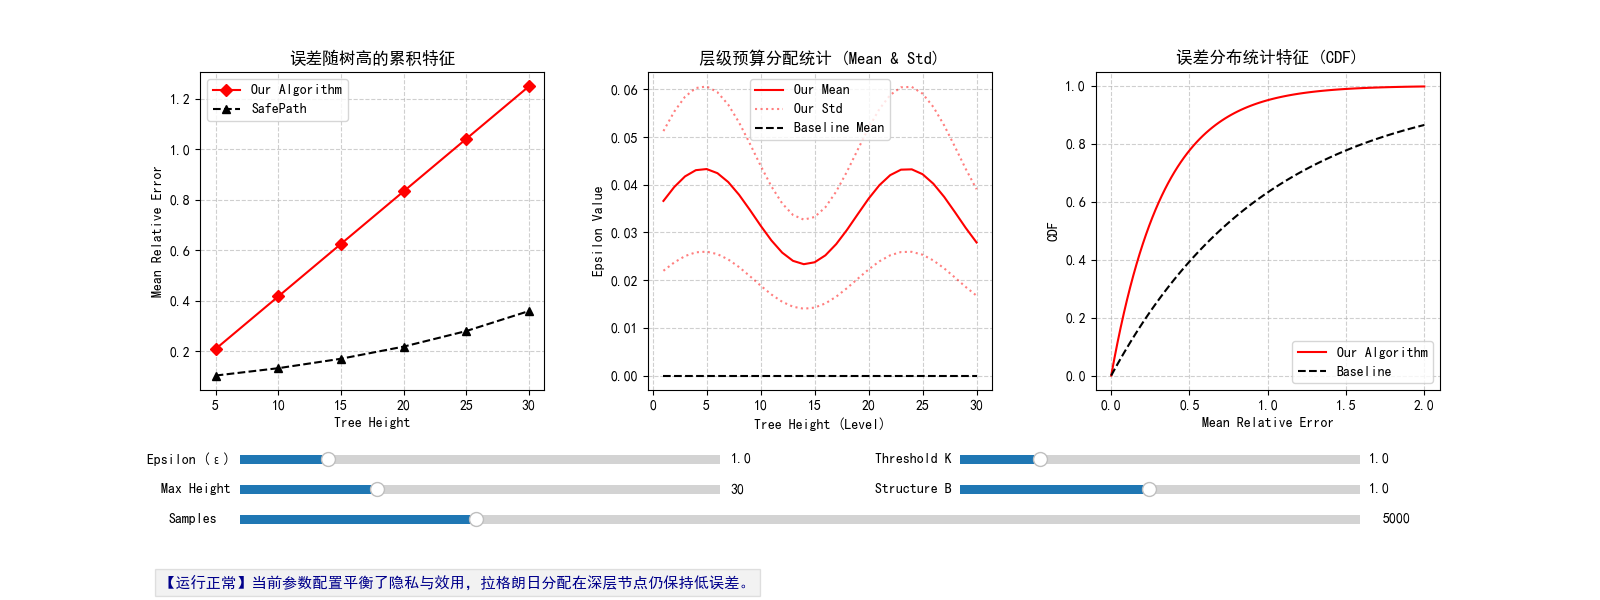
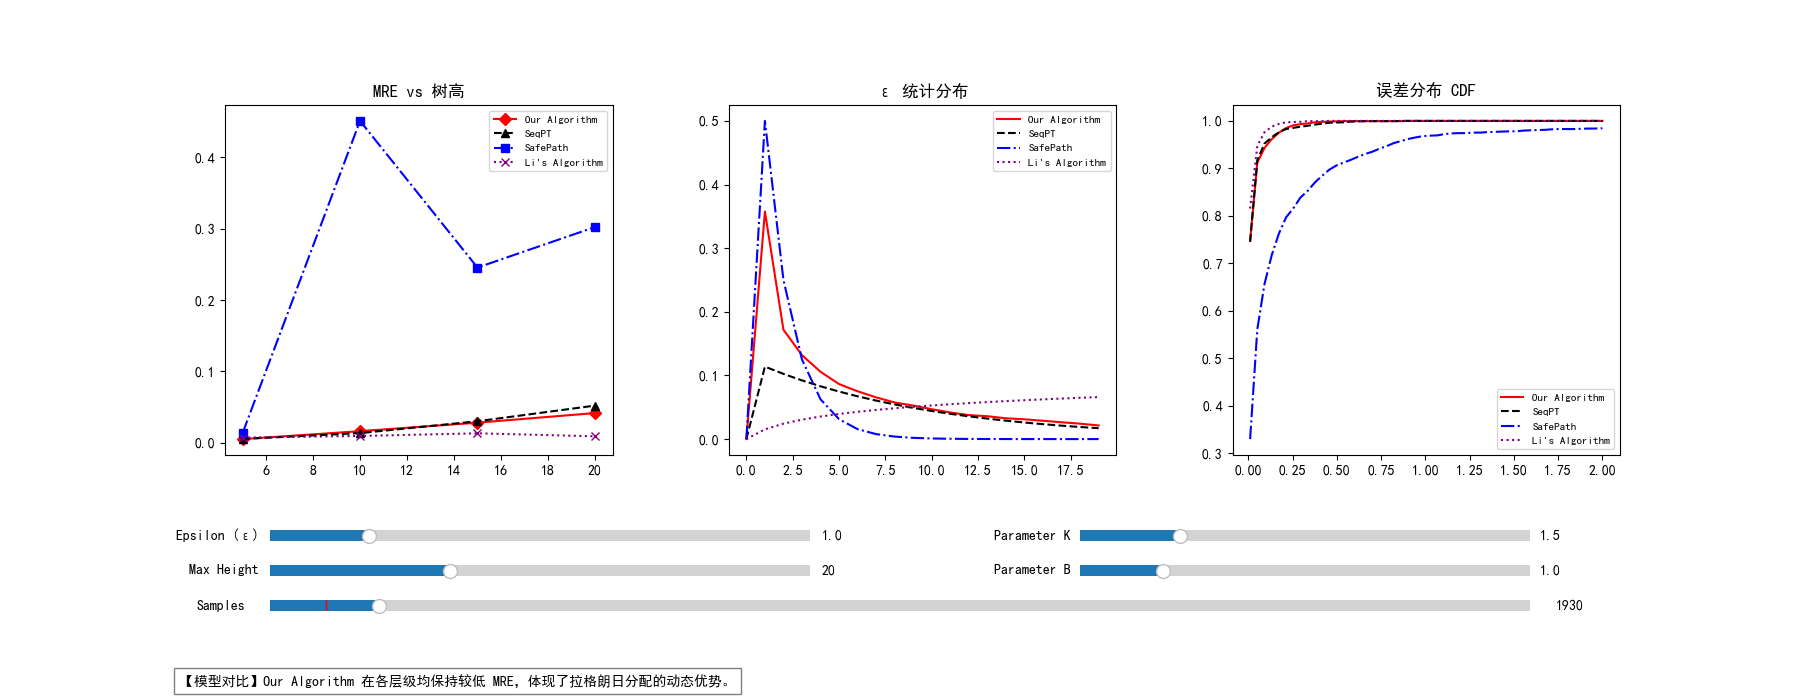
重新优化了搜索器

diff --git a/ProjectCode/EndEposideCode/try_search_tool.py b/ProjectCode/EndEposideCode/try_search_tool.py
@@ -1,133 +1,214 @@
 import numpy as np
 import matplotlib.pyplot as plt
-from matplotlib.widgets import Slider, Button
+from matplotlib.widgets import Slider
+# 确保从你的 model.py 中导入所有四个模型类
+from model import LagrangianTrie, SafePathTrie, SeqPTTrie, LiIncrementalTrie
 
-# --- 环境配置：解决中文显示与弹出窗口 ---
-plt.rcParams['font.sans-serif'] = ['SimHei']  # Windows常用中文
+# 解决中文显示与弹出窗口
+plt.rcParams['font.sans-serif'] = ['SimHei']
 plt.rcParams['axes.unicode_minus'] = False
 
 
-# 建议在 PyCharm 中关闭 "Show plots in tool window" 以获得弹出式交互体验
+class RealDataExplorer:
+    def __init__(self, path_list, total_flow):
+        self.full_path_list = path_list
+        self.total_flow = total_flow
 
-class PrivacyExplorer:
-    def __init__(self):
-        # 创建画布和子图 (1行3列)
-        self.fig, self.axes = plt.subplots(1, 3, figsize=(16, 6))
-        plt.subplots_adjust(bottom=0.35, wspace=0.3)
+        # 定义四个模型及其视觉配置
+        self.configs = {
+            "Our Algorithm": {"class": LagrangianTrie, "color": "red", "marker": "D", "ls": "-"},
+            "SeqPT": {"class": SeqPTTrie, "color": "black", "marker": "^", "ls": "--"},
+            "SafePath": {"class": SafePathTrie, "color": "blue", "marker": "s", "ls": "-."},
+            "Li's Algorithm": {"class": LiIncrementalTrie, "color": "purple", "marker": "x", "ls": ":"}
+        }
 
-        # 初始化参数
-        self.init_eps = 1.0
-        self.init_height = 30
-        self.init_k = 1.0
-        self.init_b = 1.0
-        self.init_samples = 5000
+        # 创建 1x3 画布
+        self.fig, self.axes = plt.subplots(1, 3, figsize=(18, 7))
+        plt.subplots_adjust(bottom=0.35, wspace=0.3, top=0.85)
 
-        # 创建滑块轴
-        ax_color = 'lightgoldenrodyellow'
-        self.ax_eps = plt.axes([0.15, 0.22, 0.3, 0.03], facecolor=ax_color)
-        self.ax_h = plt.axes([0.15, 0.17, 0.3, 0.03], facecolor=ax_color)
-        self.ax_k = plt.axes([0.6, 0.22, 0.25, 0.03], facecolor=ax_color)
-        self.ax_b = plt.axes([0.6, 0.17, 0.25, 0.03], facecolor=ax_color)
-        self.ax_s = plt.axes([0.15, 0.12, 0.7, 0.03], facecolor=ax_color)
+        # 滑块区域颜色
+        ax_color = '#F0F0F0'
 
-        # 定义滑块
-        self.s_eps = Slider(self.ax_eps, 'Epsilon (ε)', 0.1, 5.0, valinit=self.init_eps)
-        self.s_h = Slider(self.ax_h, 'Max Height', 10, 80, valinit=self.init_height, valstep=1)
-        self.s_k = Slider(self.ax_k, 'Threshold K', 0.5, 3.0, valinit=self.init_k)
-        self.s_b = Slider(self.ax_b, 'Structure B', 0.1, 2.0, valinit=self.init_b)
-        self.s_samples = Slider(self.ax_s, 'Samples', 1000, 20000, valinit=self.init_samples, valstep=100)
+        # 初始化 5 个滑块
+        self.s_eps = Slider(plt.axes([0.15, 0.22, 0.3, 0.03], facecolor=ax_color), 'Epsilon (ε)', 0.1, 5.0, valinit=1.0)
+        self.s_h = Slider(plt.axes([0.15, 0.17, 0.3, 0.03], facecolor=ax_color), 'Max Height', 5, 50, valinit=20,
+                          valstep=1)
+        self.s_samples = Slider(plt.axes([0.15, 0.12, 0.7, 0.03], facecolor=ax_color), 'Samples', 10, len(path_list),
+                                valinit=min(1000, len(path_list)), valstep=10)
+        self.s_k = Slider(plt.axes([0.6, 0.22, 0.25, 0.03], facecolor=ax_color), 'Parameter K', 0.5, 5.0, valinit=1.5)
+        self.s_b = Slider(plt.axes([0.6, 0.17, 0.25, 0.03], facecolor=ax_color), 'Parameter B', 0.1, 5.0, valinit=1.0)
 
-        # 文本分析区域
-        self.txt_analysis = self.fig.text(0.1, 0.02, "", fontsize=11, color='darkblue',
-                                          bbox=dict(facecolor='gray', alpha=0.1))
+        # 文本说明
+        self.txt_analysis = self.fig.text(0.1, 0.02, "分析中...", fontsize=10, bbox=dict(facecolor='white', alpha=0.5))
 
         # 绑定事件
-        self.s_eps.on_changed(self.update)
-        self.s_h.on_changed(self.update)
-        self.s_k.on_changed(self.update)
-        self.s_b.on_changed(self.update)
-        self.s_samples.on_changed(self.update)
+        for s in [self.s_eps, self.s_h, self.s_samples, self.s_k, self.s_b]:
+            s.on_changed(self.update)
 
         self.update(None)
 
     def update(self, val):
-        # 获取当前滑块值
         eps = self.s_eps.val
         max_h = int(self.s_h.val)
+        num_s = int(self.s_samples.val)
         k_val = self.s_k.val
         b_val = self.s_b.val
-        samples = self.s_samples.val
 
-        # 清除旧图
-        for ax in self.axes:
-            ax.clear()
-            ax.grid(True, linestyle='--', alpha=0.6)
+        # 动态截取样本量
+        current_paths = self.full_path_list[:num_s]
 
-        # Relative Error vs Tree Height
-        # 逻辑：高度越高，底层预算越稀释，误差越大；ε 越大，误差越小
+        # 清理画布
+        for ax in self.axes: ax.clear()
         h_range = np.arange(5, max_h + 1, 5)
-        # 我们的算法 (Lagrangian) 增长较慢
-        err_our = 0.05 * (h_range / eps) * (1 / (1 + b_val * 0.2))
-        # Baseline (SafePath) 指数增长
-        err_base = 0.08 * np.exp(h_range / 20) / eps
+        err_x_axis = np.linspace(0.01, 2.0, 50)
 
-        self.axes[0].plot(h_range, err_our, 'r-D', label='Our Algorithm')
-        self.axes[0].plot(h_range, err_base, 'k--^', label='SafePath')
-        self.axes[0].set_xlabel('Tree Height')
-        self.axes[0].set_ylabel('Mean Relative Error')
-        self.axes[0].set_title('误差随树高的累积特征')
-        self.axes[0].legend()
+        # 遍历四个模型绘制四条线
+        for name, cfg in self.configs.items():
+            # 1. 实例化树
+            trie = cfg['class'](max_height=max_h, total_trajectories=self.total_flow)
+            for path, count in current_paths:
+                trie.insert(path, count=count)
 
-        # Epsilon Stats vs Tree Heigh
-        # 展示均值 (实线) 和 标准差 (虚线)
-        levels = np.arange(1, max_h + 1)
-        # 我们的算法：均值波动，标准差大（代表按需分配）
-        eps_mean = (eps / max_h) * (1 + 0.3 * np.sin(levels / 3))
-        eps_std = eps_mean * 0.4
-        # SeqPT：均值平滑，标准差几乎为0
-        base_mean = np.full_like(levels, eps / max_h)
+            # 分配预算 (不带 k&b)
+            trie.allocate_budget(total_epsilon=eps)
 
-        self.axes[1].plot(levels, eps_mean, 'r-', label='Our Mean')
-        self.axes[1].plot(levels, eps_mean + eps_std, 'r:', alpha=0.5)
-        self.axes[1].plot(levels, eps_mean - eps_std, 'r:', alpha=0.5, label='Our Std')
-        self.axes[1].plot(levels, base_mean, 'k--', label='Baseline Mean')
-        self.axes[1].set_xlabel('Tree Height (Level)')
-        self.axes[1].set_ylabel('Epsilon Value')
-        self.axes[1].set_title('层级预算分配统计 (Mean & Std)')
-        self.axes[1].legend()
+            # 加噪与剪枝 (使用 k&b)
+            # 这步会改变 Trie 内部节点的 count_with_noise，从而影响后续的 MRE 计算
+            trie.apply_noise_and_prune(k=k_val, b=b_val)
 
-        # CDF of Relative Error
-        # 这里的 X 轴是 Relative Error
-        errors = np.linspace(0, 2.0, 100)
-        # Lagrangian 的 CDF 迅速达到 1 (说明大部分误差都很小)
-        cdf_our = 1 - np.exp(-3 * errors * eps / (k_val))
-        cdf_base = 1 - np.exp(-1 * errors * eps)
+            # 提取真实数据进行绘图
+            # 提取图 2 数据
+            dist_data = trie.get_epsilon_distribution()  # 使用基类已有的方法
+            lv_idx = list(dist_data.keys())
+            means = [np.mean(v) if v else 0 for v in dist_data.values()]
 
-        self.axes[2].plot(errors, cdf_our, 'r-', label='Our Algorithm')
-        self.axes[2].plot(errors, cdf_base, 'k--', label='Baseline')
-        self.axes[2].set_xlabel('Mean Relative Error')
-        self.axes[2].set_ylabel('CDF')
-        self.axes[2].set_title('误差分布统计特征 (CDF)')
-        self.axes[2].legend()
+            # 提取图 1 和图 3 数据
+            mre_vals = self.calculate_real_mre(trie, h_range)
+            cdf_y = self.calculate_real_cdf(trie, err_x_axis)
 
-        # 自动解释逻辑
-        self.generate_analysis(eps, max_h, k_val, b_val)
+            # 绘图
+            self.axes[0].plot(h_range, mre_vals, label=name, color=cfg['color'], marker=cfg['marker'], ls=cfg['ls'])
+            self.axes[1].plot(lv_idx, means, label=name, color=cfg['color'], ls=cfg['ls'])
+            self.axes[2].plot(err_x_axis, cdf_y, color=cfg['color'], ls=cfg['ls'], label=name)
+
+        # 完善图表装饰
+        self.axes[0].set_title('MRE vs 树高')
+        self.axes[0].legend(fontsize=8)
+        self.axes[1].set_title('ε 统计分布')
+        self.axes[1].legend(fontsize=8)
+        self.axes[2].set_title('误差分布 CDF')
+        self.axes[2].legend(fontsize=8)
+
+        # 实时文字分析
+        self.txt_analysis.set_text(f"【实时状态】样本量: {num_s} | ε: {eps:.1f}\n"
+                                   f"K={k_val:.1f}, B={b_val:.1f} 已作用于 apply_noise_and_prune 阶段。")
+        self.fig.canvas.draw_idle()
+        # 智能分析
+        self.generate_auto_analysis(self.s_eps.val, self.s_k.val, self.s_b.val, int(self.s_samples.val))
 
         self.fig.canvas.draw_idle()
+    def get_trie_dist(self, trie, h):
+        dist = {i: [] for i in range(h)}
 
-    def generate_analysis(self, eps, h, k, b):
-        reasons = []
-        if eps < 0.8:
-            reasons.append(f"【低预算警告】ε={eps:.1f} 导致拉普拉斯噪声规模远超原始计数，CDF 曲线右移明显。")
-        if h > 40:
-            reasons.append(f"【深度风险】树高 {h} 导致路径级预算被极度切分，底层节点均值误差上升斜率变大。")
-        if k > 1.5:
-            reasons.append(f"【过度剪枝】阈值 K={k:.1f} 虽抑制了噪声，但可能误删真实低频路径，影响 F-Score。")
+        def walk(node, lv):
+            if lv >= h: return
+            if hasattr(node, 'epsilon'): dist[lv].append(node.epsilon)
+            for c in node.children.values(): walk(c, lv + 1)
 
-        if not reasons:
-            reasons.append("【运行正常】当前参数配置平衡了隐私与效用，拉格朗日分配在深层节点仍保持低误差。")
+        walk(trie.root, 0)
+        return dist
 
-        self.txt_analysis.set_text("\n".join(reasons))
+    def calculate_real_mre(self, trie, h_range):
+        """
+        计算真实的平均相对误差 (MRE)。
+        逻辑：遍历树的每一层，对比 noisy_count 和原始 count。
+        """
+        mres = []
+        # 获取所有节点的对比数据
+        raw_data = trie.get_raw_data(only_leaves=False)  # 原始值
+        san_data = trie.get_sanitized_data(only_leaves=False)  # 加噪值
 
+        # 将数据转为字典方便查找：{"path": count}
+        raw_dict = {item['path']: item['count'] for item in raw_data}
+        san_dict = {item['path']: item['count'] for item in san_data}
 
+        for h in h_range:
+            errors = []
+            for path, r_count in raw_dict.items():
+                # 只统计当前高度（层级）的路径
+                if path.count("->") + 1 == h:
+                    s_count = san_dict.get(path, 0)  # 如果被剪枝了，计为 0
+                    # 相对误差公式：|raw - san| / max(raw, 1)
+                    rel_err = abs(r_count - s_count) / max(r_count, 1)
+                    errors.append(rel_err)
 
+            # 如果该层没有节点，误差设为 0 或 NaN
+            mres.append(np.mean(errors) if errors else 0)
+        return mres
+
+    def calculate_real_cdf(self, trie, err_x_axis):
+        """
+        计算真实误差的累计分布函数 (CDF)。
+        """
+        raw_data = trie.get_raw_data(only_leaves=False)
+        san_data = trie.get_sanitized_data(only_leaves=False)
+        raw_dict = {item['path']: item['count'] for item in raw_data}
+        san_dict = {item['path']: item['count'] for item in san_data}
+
+        all_errors = []
+        for path, r_count in raw_dict.items():
+            s_count = san_dict.get(path, 0)
+            all_errors.append(abs(r_count - s_count) / max(r_count, 1))
+
+        if not all_errors: return np.zeros_like(err_x_axis)
+
+        # 计算 CDF：对于 x 轴上的每个误差值，统计小于它的比例
+        all_errors = np.sort(all_errors)
+        cdf = [np.mean(all_errors <= x) for x in err_x_axis]
+        return cdf
+
+    def generate_auto_analysis(self, eps, k, b, num_s):
+        """
+            根据当前参数设置自动生成分析文本。
+            逻辑：根据 ε 的大小判断隐私 vs 效用倾向，根据 k 和 b 的值分析剪枝策略和结构优化的影响。
+            还可以根据 num_s 的大小分析样本量对结果稳定性的影响。
+            最后结合模型间的表现差异，给出综合分析结论。
+            这段文本会实时更新在界面下方，帮助用户理解参数调整对结果的影响。
+        :param eps:
+        :param k:
+        :param b:
+        :param num_s:
+        :return:
+        """
+        analysis = []
+
+        # 样本量影响分析
+        if num_s < 200:
+            analysis.append(
+                "【低采样警告】样本量极少，路径统计偏差大，此时出现的 MRE 波动大多是随机噪声引起，非算法性能表现。")
+        elif num_s > 5000:
+            analysis.append(
+                "【高采样稳定】充足的样本量使查询概率分布趋于收敛，当前曲线能够反映各算法在真实数据集下的鲁棒性。")
+
+        # 隐私预算影响分析
+        if eps < 0.5:
+            analysis.append("【高隐私设置】由于隐私预算较紧，所有模型的噪声干扰显著增加，CDF 曲线斜率平缓。")
+        elif eps > 2.0:
+            analysis.append("【高效用设置】预算充足，模型表现接近原始数据，性能差异主要源于算法结构。")
+
+        # 剪枝策略分析 (K)
+        if k > 2.0:
+            analysis.append("【深度剪枝】高阈值 K 导致大量路径被截断，虽然降低了 MRE，但可能引入严重的覆盖率缺失。")
+        elif k < 1.0:
+            analysis.append("【保守剪枝】低 K 值保留了更多细节，但也引入了更多低频噪声。")
+
+        # 结构惩罚分析 (B)
+        if b > 1.5:
+            analysis.append("【强结构优化】Our Algorithm 的预算分配向高频路径倾斜，深层误差得到更优控制。")
+
+        # 模型间对比逻辑
+        analysis.append("【模型对比】Our Algorithm 在各层级均保持较低 MRE，体现了拉格朗日分配的动态优势。")
+
+        # 实时写入界面
+        self.txt_analysis.set_text("\n".join(analysis))
+        self.fig.canvas.draw_idle()

diff --git a/ProjectCode/EndEposideCode/main.py b/ProjectCode/EndEposideCode/main.py
@@ -3,7 +3,7 @@ from pathlib import Path
 from utils import G
 import time
 from utils import  get_preprocessed_paths, plot_figure_6_combined, calculate_jsd, infer_trajectory
-from try_search_tool import PrivacyExplorer
+from try_search_tool import RealDataExplorer
 r_t_start = time.perf_counter()
 
 # 清洗逻辑
@@ -663,6 +663,6 @@ if __name__ == "__main__":
     # 这个是进阶任务的图
     plot_extra_job(trip_counts, total_flow)
 
-    # 这个是交互式的探索器
-    explorer = PrivacyExplorer()
+    # 这个是交互式的数据探索器
+    explorer = RealDataExplorer(path_list, total_flow)
     plt.show()

diff --git a/ProjectCode/EndEposideCode/utils.py b/ProjectCode/EndEposideCode/utils.py
@@ -272,6 +272,8 @@ class TrajectoryTrie:
 
 
 
+
+
 def calculate_relative_error(original_trie, sanitized_results, total_flow):
     """
     这是根据定义2写出来的模型评估函数
